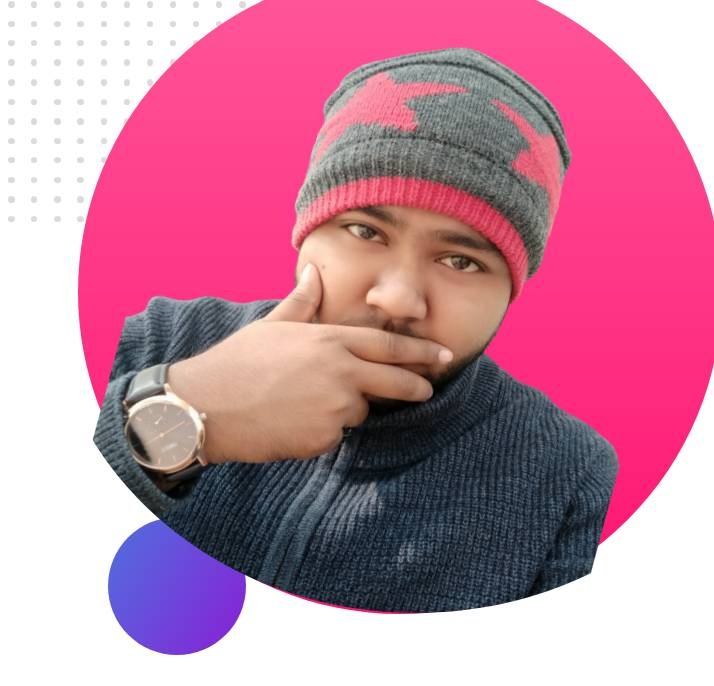
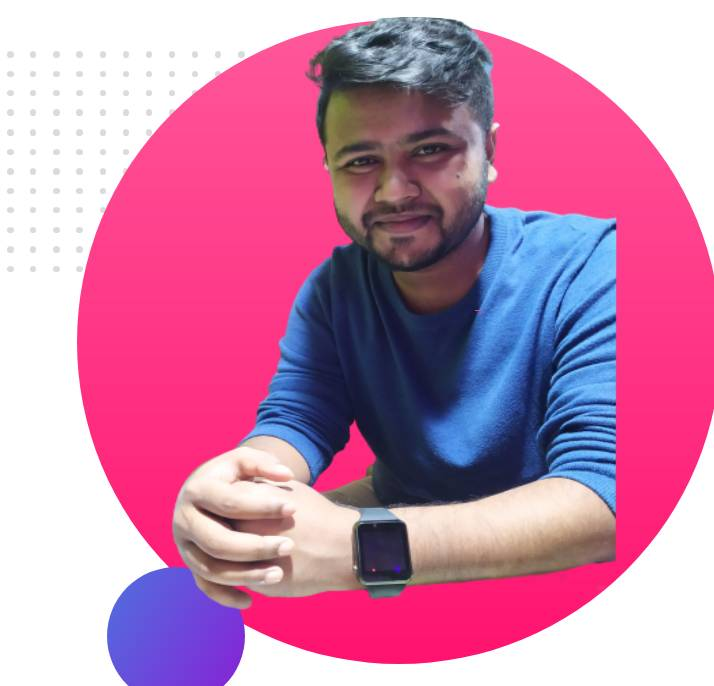
header added

diff --git a/index.html b/index.html
@@ -4,10 +4,26 @@
     <meta charset="UTF-8">
     <meta http-equiv="X-UA-Compatible" content="IE=edge">
     <meta name="viewport" content="width=device-width, initial-scale=1.0">
+    <link rel="stylesheet" href="style.css">
     <title>Document</title>
+    <<link rel="preconnect" href="https://fonts.googleapis.com">
+    <link rel="preconnect" href="https://fonts.gstatic.com" crossorigin>
+    <link href="https://fonts.googleapis.com/css2?family=Poppins&display=swap" rel="stylesheet">
+
 </head>
 <body>
-    Hello Everyone
-    i am abu bakkar siddik
+    <section class="header">
+        <div class="half-width">
+            <h1>Welcome To</h1>
+            <h1><span style="color: rgb(196, 196, 25);">Peter Parker</span> World!</h1>
+            <h3>Build Climber and Train Stopper</h3>
+            <p style="opacity: 0.6;">Lorem ipsum dolor sit amet consectetur adipisicing elit. Alias vero perspiciatis laudantium iusto quibusdam, autem labore velit illum? Temporibus aspernatur autem odit unde nam ut maiores minus qui consequuntur? Officia magnam nihil quasi ipsum tempora fugit totam, iusto nam enim doloremque possimus sapiente sunt dignissimos tenetur laboriosam numquam corporis adipisci.</p>
+            <a target="blank" href="https://www.linkedin.com/feed/"><input class="butt" type="button" value="Click Hear"></a>
+        </div>
+    
+        <div class="half-width">
+            <img src="images/my-bg2.jpg">
+        </div>
+    </section>
 </body>
 </html>

diff --git a/style.css b/style.css
@@ -1,0 +1,30 @@
+body{
+    font-family: 'Poppins', sans-serif;
+    margin: 0px;   
+    padding: 0px;
+}
+h1{
+    font-size: 40px;
+}
+.header{
+    display: flex;
+    background-image: url(images/top-banner.png);
+    background-repeat: no-repeat;
+}
+.half-width{
+    width: 50%;
+    padding: 2%;
+}
+.half-width img{
+    width: 90%;
+}
+.butt{
+    background-image: linear-gradient(orange,tomato);
+    text-decoration: none;
+    color: white;
+    padding: 10px 20px;
+    font-size: 20px;
+    border-radius: 15px;
+    border: 2px solid white;
+    
+}
